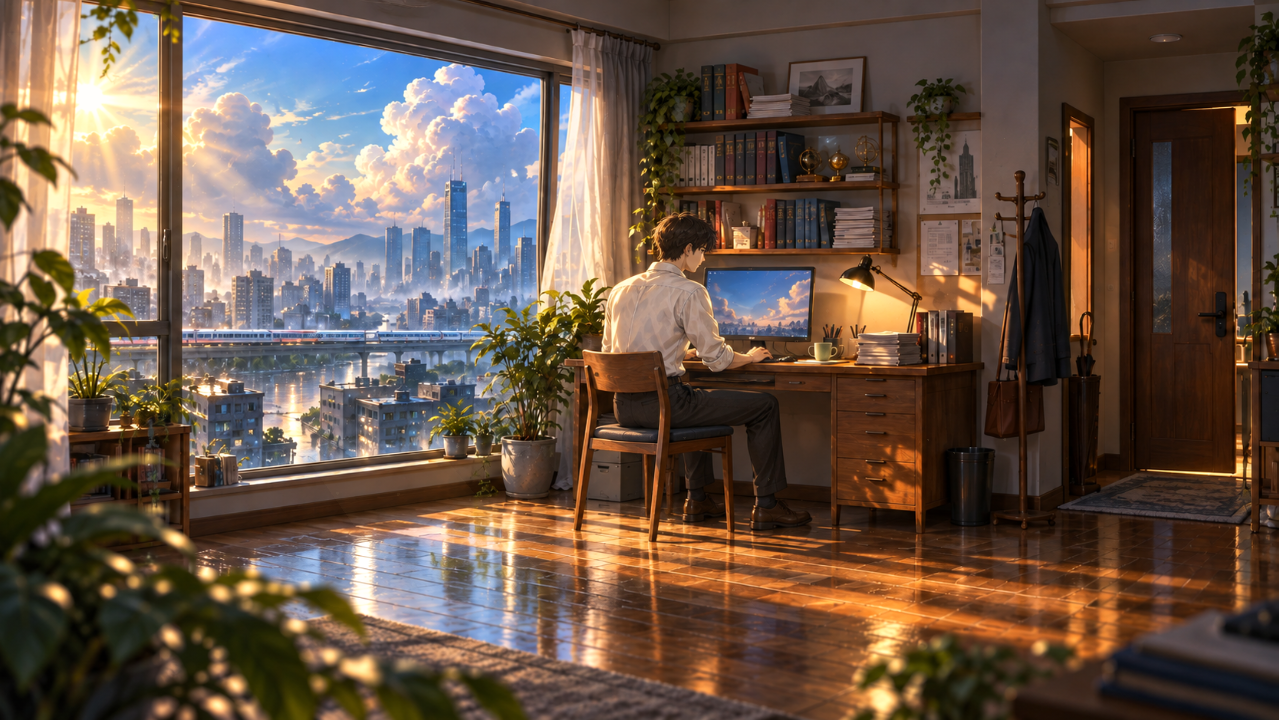
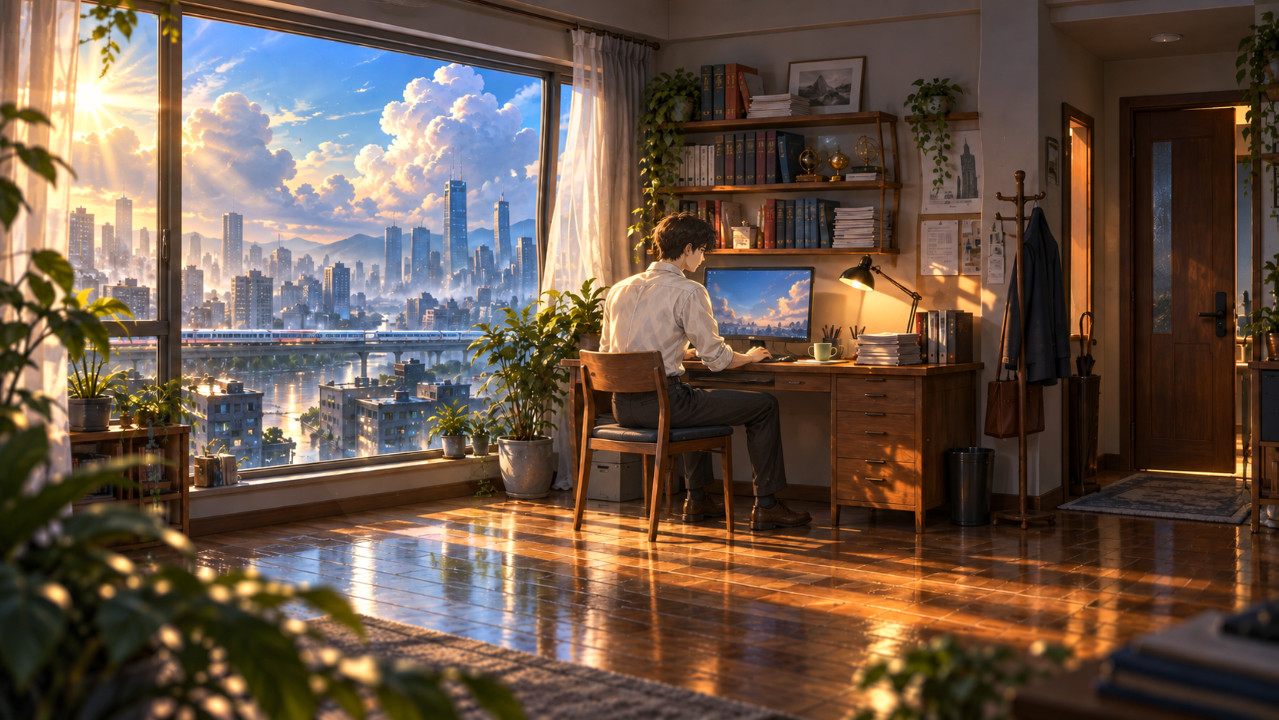
feat: 增强办公场景环境律动

diff --git a/docs/design/art/protagonist_cinematic_motion_godot.md b/docs/design/art/protagonist_cinematic_motion_godot.md
@@ -13,11 +13,12 @@
 
 1. 角色呼吸：局部椭圆遮罩仅影响上身，产生约 1–2 像素的纵向呼吸形变。
 2. 角色微动作：头部低频轻移，键盘手与鼠标手使用不同相位的小幅位移。
-3. 窗帘与植物：局部 UV 波动模拟微风，避免整张背景平移。
+3. 窗帘与植物：窗边盆栽、书架垂叶和前景叶片使用不同遮罩、频率与相位摆动，避免整张背景平移。
 4. 空气粒子：室内暖色浮尘缓慢上升，窗前冷色微粒水平漂移。
 5. 光线：两束半透明阳光缓慢呼吸，地板反光轻微移动。
-6. 电脑：显示器冷色辉光以低频脉冲照亮人物手部与桌面。
-7. 相机：位置约 1–2 像素漂移，缩放幅度约 0.35%，形成不易察觉的镜头呼吸。
+6. 桌面文件：文件堆顶部与零散纸页分别起伏，并让文件底部阴影随高度轻微变化。
+7. 电脑：显示器冷色辉光以低频脉冲照亮人物手部与桌面。
+8. 相机：位置约 1–2 像素漂移，缩放幅度约 0.35%，形成不易察觉的镜头呼吸。
 
 所有效果保持低幅度，避免影响 UI 阅读或让静态插画出现明显橡皮形变。粒子位置使用固定随机种子，方便录制、测试和复现。
 
